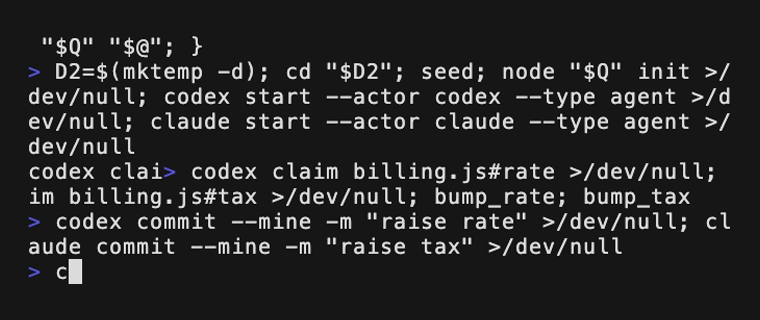
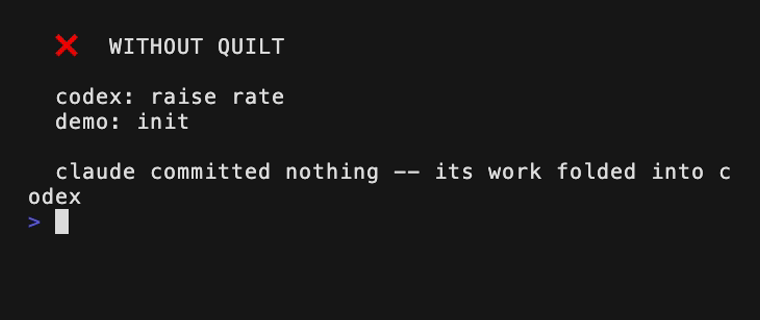
docs: split-screen contrast as a simultaneous GIF (not a static image)
Per the preference for motion over a frozen image: make the contrast a true
side-by-side GIF. Each half is its own short clip with identical Set/Sleep timing
(contrast-without.tape, contrast-with.tape), and they're stacked with ffmpeg so
they play at the same time -- same two commit commands run on both sides, the
left absorbs claude's work into codex (one author), the right lands both
attributed. Build:
  vhs examples/contrast-without.tape
  vhs examples/contrast-with.tape
  ffmpeg -i examples/contrast-without.gif -i examples/contrast-with.gif \
    -filter_complex "[0:v][1:v]hstack=inputs=2,split[a][b];[a]palettegen[p];[b][p]paletteuse" \
    -y examples/contrast.gif

README now points at examples/contrast.gif; the two halves are gitignored
intermediates.

Changed region(s): [[0.0303, 0.0938, 0.9684, 0.9062], [0.8171, 0.5, 0.9684, 0.5625]]

diff --git a/README.md b/README.md
@@ -12,7 +12,7 @@ quilt commit --mine
 
 Same edits, two agents, one repo. Plain git vs Quilt:
 
-![Without Quilt, the first agent's commit absorbs the other's work and the history credits one author; with Quilt, each change is committed by the agent that made it.](examples/contrast.png)
+![Without Quilt, the first agent's commit absorbs the other's work and the history credits one author; with Quilt, each change is committed by the agent that made it.](examples/contrast.gif)
 
 Everyone else ran *toward* isolation: a worktree per agent, a branch per agent,
 reconcile at PR time. That trades one mess for another. You get `node_modules`,